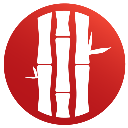
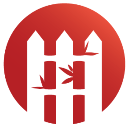
update final assets

diff --git a/frontend/js/background.js b/frontend/js/background.js
@@ -15,7 +15,7 @@ const ML_PORT_NAME = 'ML_PORT_NAME'
 
 
 function fetchLive(callback) {
-  $.getJSON("http://207.148.119.106:6969/classifier.json", function(data) {
+  $.getJSON("https://api.chongluadao.vn/classifier.json", function(data) {
       chrome.storage.local.set({cache: data, cacheTime: Date.now()}, function() {
           callback(data);
       });
@@ -48,8 +48,6 @@ function classify(tabId, result) {
     for(var key in result) {
         X[0].push(parseInt(result[key]));
     }
-    console.log(result);
-    console.log(X);
     fetchCLF(function(clf) {
       var rf = random_forest(clf);
       y = rf.predict(X);
@@ -65,7 +63,7 @@ function classify(tabId, result) {
 
 function startup() {
 
-    $.getJSON("http://207.148.119.106:6969/blacklist.json", function(data) {
+    $.getJSON("https://api.chongluadao.vn/blacklist.json", function(data) {
       data.forEach(item => {
         blackListing.push(item.url);
       })
@@ -90,11 +88,7 @@ function filter({frameId, url}) {
 
   let whiteList = localStorage.getItem('whiteList');
 
-  // if (whiteList !== null && whiteList !== 'null') {
-  //   whiteList = JSON.parse(whiteList);
-  //   blackListing = blackListing.filter(url => !whiteList.includes(url));
-  // }
-
+  
   if (whiteList !== null) {
     localStorage.removeItem('whiteList');
     return;
@@ -177,29 +171,12 @@ function updateBadge(isPhishing, legitimatePercent, tabId) {
 chrome.runtime.onStartup.addListener(startup);
 chrome.runtime.onInstalled.addListener(startup);
 
-
 chrome.tabs.onActivated.addListener(function(activeInfo){  
   sendCurrentUrl();
 });
 chrome.tabs.onSelectionChanged.addListener(function() {
   sendCurrentUrl();
 });
-
-// chrome.runtime.onMessage.addListener(function(request, sender, sendResponse) {
-//   if (request.input_block_list !== undefined) {
-//     blackListing = request.input_block_list;
-//     inputBlockLenient = request.input_block_lenient;
-//   }
-//   if (request.close_tab) {
-//     chrome.tabs.query({ currentWindow: true, active: true }, function([tab, ...tabs]) {
-//       chrome.tabs.remove(tab.id);
-//     });
-//   }
-  
-//   results[sender.tab.id]=request;
-//   classify(sender.tab.id, request);
-//   sendResponse({received: "result"});
-// });
 
 chrome.runtime.onConnect.addListener(function(port) {
   switch (port.name){

diff --git a/frontend/plugin_ui.css b/frontend/plugin_ui.css
@@ -11,9 +11,18 @@
   flex-direction: column;
   justify-content: center;
   align-items: center;
-  background: rgb(23,217,3);
-  background: linear-gradient(90deg, rgba(23,217,3,1) 0%, rgba(255,255,255,1) 50%, rgba(23,217,3,1) 100%);
+  background: -webkit-linear-gradient(21deg, rgb(11, 119, 61) 0%, rgb(54, 170, 73) 41%, rgb(107, 189, 70) 81%, rgb(127, 195, 67) 100%);
+  background: -o-linear-gradient(21deg, rgb(11, 119, 61) 0%, rgb(54, 170, 73) 41%, rgb(107, 189, 70) 81%, rgb(127, 195, 67) 100%);
+  background: -ms-linear-gradient(21deg, rgb(11, 119, 61) 0%, rgb(54, 170, 73) 41%, rgb(107, 189, 70) 81%, rgb(127, 195, 67) 100%);
+  background: -moz-linear-gradient(21deg, rgb(11, 119, 61) 0%, rgb(54, 170, 73) 41%, rgb(107, 189, 70) 81%, rgb(127, 195, 67) 100%);
+  background: linear-gradient(69deg, rgb(11, 119, 61) 0%, rgb(54, 170, 73) 41%, rgb(107, 189, 70) 81%, rgb(127, 195, 67) 100%);
 }
+
+.logo {
+  border-radius: 50%;
+  padding: 0.5em;
+}
+
 h6 {
   font-size: 1rem;
   margin: 0;

diff --git a/frontend/rating.html b/frontend/rating.html
@@ -24,19 +24,19 @@
     <!-- Rating Stars Box -->
     <div class='rating-stars text-center'>
       <ul id='stars'>
-        <li class='star' title='Rất nguy hiểm' data-value='1'>
+        <li class='star' title='Xấu' data-value='1'>
           <i class='fa fa-star fa-fw'></i>
         </li>
-        <li class='star' title='Nghi vấn' data-value='2'>
+        <li class='star' title='Xấu' data-value='2'>
           <i class='fa fa-star fa-fw'></i>
         </li>
         <li class='star' title='Tốt' data-value='3'>
           <i class='fa fa-star fa-fw'></i>
         </li>
-        <li class='star' title='Tin cậy' data-value='4'>
+        <li class='star' title='Tốt' data-value='4'>
           <i class='fa fa-star fa-fw'></i>
         </li>
-        <li class='star' title='Rất tin cậy' data-value='5'>
+        <li class='star' title='Rất tốt' data-value='5'>
           <i class='fa fa-star fa-fw'></i>
         </li>
       </ul>

diff --git a/frontend/js/rating.js b/frontend/js/rating.js
@@ -50,7 +50,7 @@ $(document).ready(function () {
 
 function sendRatingRequest(rating, callback, msg) {
   //TODO: here callback hell
-  $.post("http://207.148.119.106:6969/v1/initSession", {
+  $.post("https://api.chongluadao.vn/v1/initSession", {
     "app": "chrome-extension",
     "secret": "luatinhkhongluadao" //need hashing
   }, function(auth){
@@ -58,7 +58,7 @@ function sendRatingRequest(rating, callback, msg) {
       const {token} = auth;
       $.ajax({
         type: 'POST',
-        url: 'http://207.148.119.106:6969/v1/rate',
+        url: 'https://api.chongluadao.vn/v1/rate',
         headers: {
           "Authorization": "Bearer " + token
         },

diff --git a/frontend/js/plugin_ui.js b/frontend/js/plugin_ui.js
@@ -38,7 +38,7 @@ chrome.tabs.query({ currentWindow: true, active: true }, function (tabs) {
     featureList.appendChild(newFeature);
   }
 
-  const phishingMessage = isPhish ? "Website này có thể không an toàn." : "Website cớ thể này an toàn"
+  const phishingMessage = isPhish ? "Website này có thể không an toàn." : "Website có thể này an toàn"
 
   let site_score = document.getElementById("site_score");
   let percentage_content = document.getElementById("percentage_content");

diff --git a/frontend/plugin_ui.html b/frontend/plugin_ui.html
@@ -15,7 +15,7 @@
 <body>
   <div id="plugin_main">
     <div id="plugin_name">
-      <img src="assets/logo.png" alt="Chong lua dao" width="100" height="100">
+      <img class="logo" src="assets/logo.jpg" alt="Chong lua dao" width="100" height="100">
     </div>
     <h2 id="domain_url"></h2>
     <div id="percentage_content" class="c100 center">
